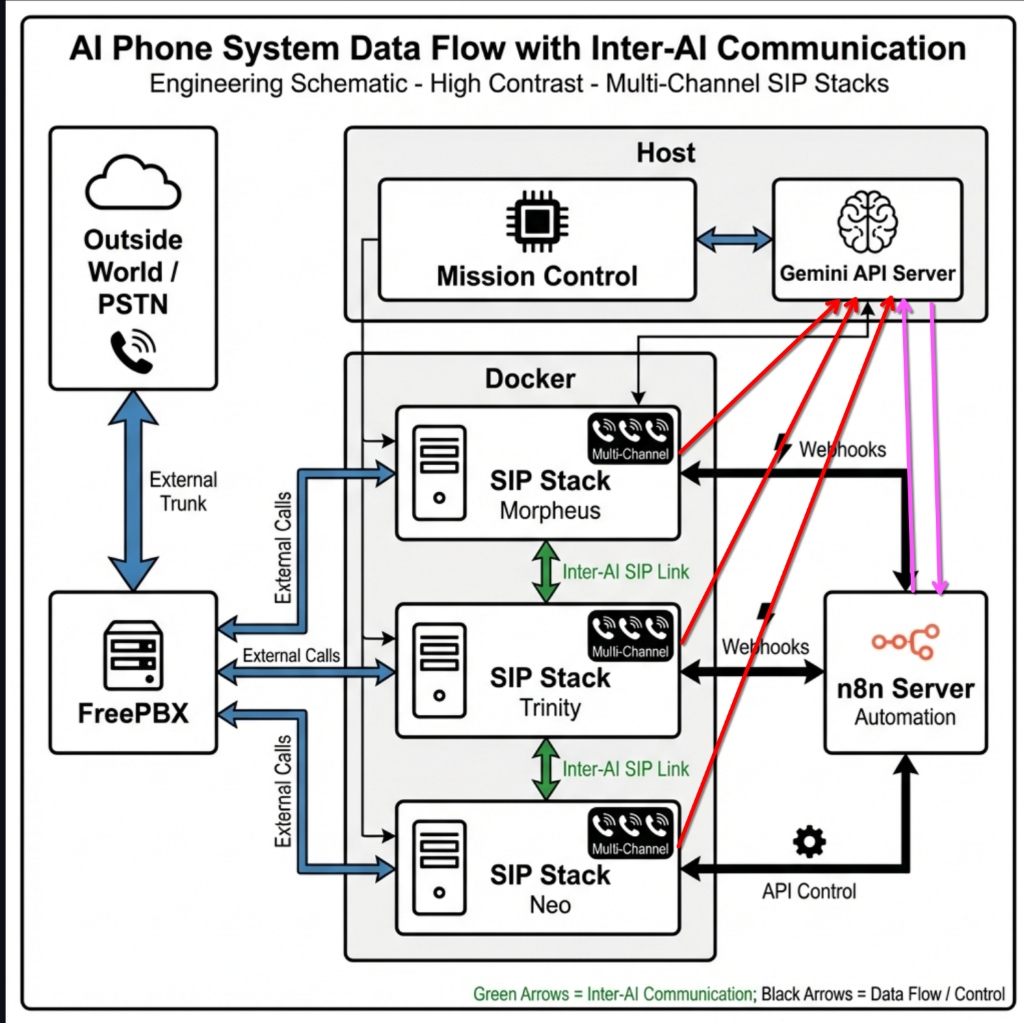
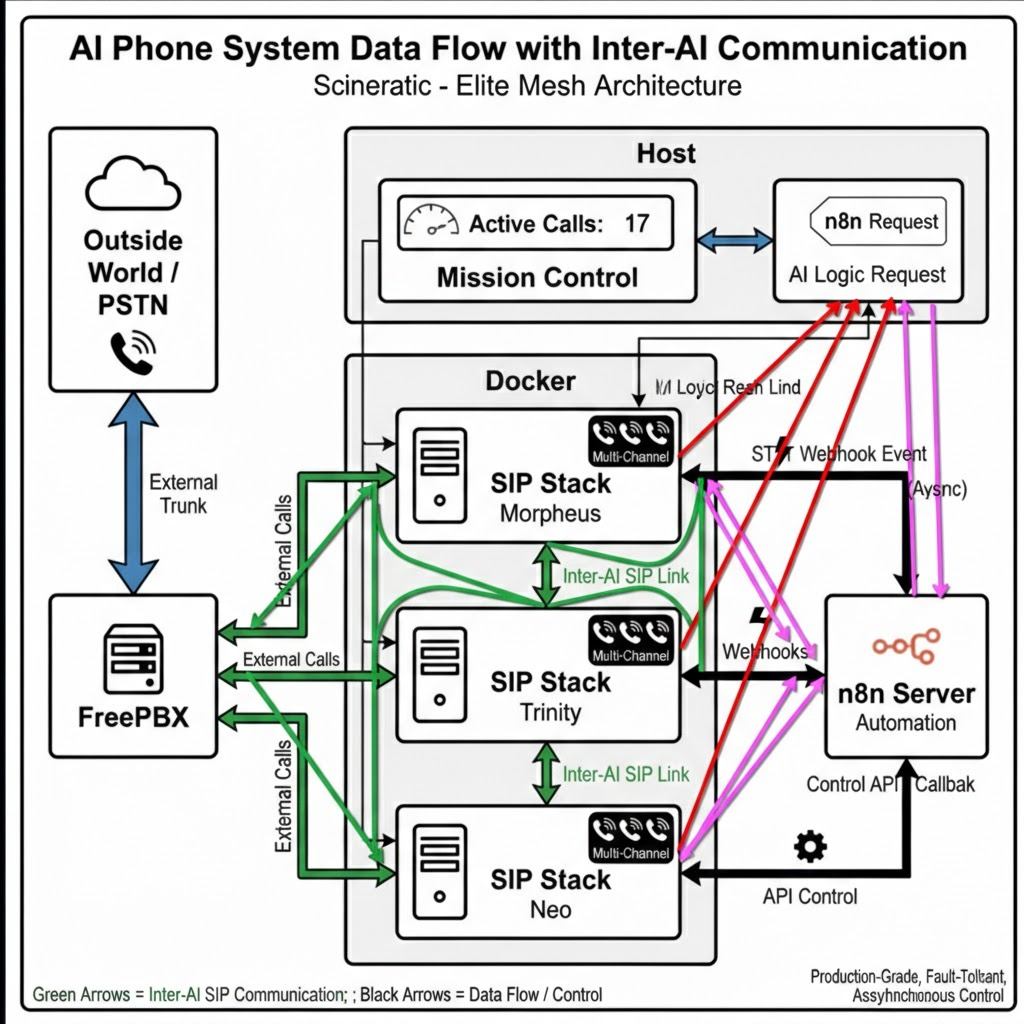
release: MIssionweedSNACKS (Elite Mesh Architecture)

diff --git a/voice-app/lib/query-routes.js b/voice-app/lib/query-routes.js
@@ -11,7 +11,10 @@ const axios = require('axios');
 const crypto = require('crypto');
 const router = express.Router();
 const logger = require('./logger');
+const logger = require('./logger');
 const deviceRegistry = require('./device-registry');
+const callManager = require('./call-manager');
+const callManager = require('./call-manager');
 
 // Dependencies injected via setupRoutes()
 let geminiBridge = null;
@@ -461,6 +464,92 @@ router.get('/device/:identifier', (req, res) => {
       error: 'internal_error',
       message: 'Failed to retrieve device'
     });
+  }
+});
+
+/**
+ * GET /calls
+ * List active calls
+ */
+router.get('/calls', (req, res) => {
+  try {
+    const activeCalls = Array.from(callManager.calls.values()).map(c => ({
+      id: c.id,
+      startTime: c.startTime,
+      duration: Math.round((Date.now() - c.startTime) / 1000)
+    }));
+
+    res.json({
+      success: true,
+      count: activeCalls.length,
+      calls: activeCalls
+    });
+  } catch (error) {
+    res.status(500).json({ success: false, error: error.message });
+  }
+});
+
+/**
+ * POST /calls/:id/command
+ * Inject command into active call (For n8n control)
+ */
+router.post('/calls/:id/command', (req, res) => {
+  const { id } = req.params;
+  const command = req.body; // { type: 'speak', text: '...', ... }
+
+  try {
+    if (!command || !command.type) {
+      return res.status(400).json({ success: false, error: 'Invalid command format' });
+    }
+
+    callManager.sendCommand(id, command);
+    res.json({ success: true, message: 'Command injected' });
+  } catch (error) {
+    logger.warn(`Failed to inject command for ${id}: ${error.message}`);
+    res.status(404).json({ success: false, error: error.message });
+  }
+});
+
+/**
+ * GET /calls
+ * List active calls
+ */
+router.get('/calls', (req, res) => {
+  try {
+    const activeCalls = Array.from(callManager.calls.values()).map(c => ({
+      id: c.id,
+      startTime: c.startTime,
+      duration: Math.round((Date.now() - c.startTime) / 1000)
+    }));
+
+    res.json({
+      success: true,
+      count: activeCalls.length,
+      calls: activeCalls
+    });
+  } catch (error) {
+    res.status(500).json({ success: false, error: error.message });
+  }
+});
+
+/**
+ * POST /calls/:id/command
+ * Inject command into active call (For n8n control)
+ */
+router.post('/calls/:id/command', (req, res) => {
+  const { id } = req.params;
+  const command = req.body; // { type: 'speak', text: '...', ... }
+
+  try {
+    if (!command || !command.type) {
+      return res.status(400).json({ success: false, error: 'Invalid command format' });
+    }
+
+    callManager.sendCommand(id, command);
+    res.json({ success: true, message: 'Command injected' });
+  } catch (error) {
+    logger.warn(`Failed to inject command for ${id}: ${error.message}`);
+    res.status(404).json({ success: false, error: error.message });
   }
 });
 

diff --git a/voice-app/lib/call-manager.js b/voice-app/lib/call-manager.js
@@ -1,0 +1,101 @@
+/**
+ * Call Manager
+ * Registry of active calls to enable external control (n8n, API)
+ * 
+ * Stores active session objects and provides EventEmitters for async command injection.
+ */
+
+const EventEmitter = require('events');
+
+class CallManager extends EventEmitter {
+    constructor() {
+        super();
+        this.calls = new Map();
+    }
+
+    /**
+     * Register a new call
+     * @param {string} callId 
+     * @param {Object} context - Any initial context
+     */
+    register(callId, context = {}) {
+        if (this.calls.has(callId)) return;
+
+        console.log(`[CallManager] Registering call ${callId}`);
+        this.calls.set(callId, {
+            id: callId,
+            startTime: Date.now(),
+            events: new EventEmitter(),
+            context: context,
+            commandQueue: []
+        });
+
+        this.emit('call_started', callId);
+    }
+
+    /**
+     * Unregister a call
+     * @param {string} callId 
+     */
+    unregister(callId) {
+        if (!this.calls.has(callId)) return;
+
+        console.log(`[CallManager] Unregistering call ${callId}`);
+        const call = this.calls.get(callId);
+        call.events.removeAllListeners();
+        this.calls.delete(callId);
+
+        this.emit('call_ended', callId);
+    }
+
+    /**
+     * Get a call object
+     * @param {string} callId 
+     */
+    get(callId) {
+        return this.calls.get(callId);
+    }
+
+    /**
+     * Send a command to a specific call
+     * @param {string} callId 
+     * @param {Object} command - { type: 'speak', text: '...', ... }
+     */
+    sendCommand(callId, command) {
+        const call = this.get(callId);
+        if (!call) {
+            throw new Error(`Call ${callId} not found`);
+        }
+
+        console.log(`[CallManager] Command for ${callId}: ${command.type}`);
+        call.events.emit('command', command);
+        return true;
+    }
+
+    /**
+     * Wait for next command (Async Logic)
+     * @param {string} callId 
+     * @param {number} timeoutMs 
+     */
+    waitForCommand(callId, timeoutMs = 10000) {
+        const call = this.get(callId);
+        if (!call) return Promise.reject(new Error('Call not found'));
+
+        return new Promise((resolve, reject) => {
+            const timer = setTimeout(() => {
+                call.events.removeListener('command', handler);
+                resolve(null); // Timeout (continue normal flow)
+            }, timeoutMs);
+
+            const handler = (cmd) => {
+                clearTimeout(timer);
+                resolve(cmd);
+            };
+
+            call.events.once('command', handler);
+        });
+    }
+}
+
+// Singleton instance
+module.exports = new CallManager();

diff --git a/voice-app/lib/sip-handler.js b/voice-app/lib/sip-handler.js
@@ -4,6 +4,8 @@
  */
 
 const { setTimeout: sleep } = require('node:timers/promises');
+const callManager = require('./call-manager');
+const callManager = require('./call-manager');
 
 // Audio cue URLs
 const READY_BEEP_URL = 'http://127.0.0.1:3000/static/ready-beep.wav';
@@ -129,6 +131,12 @@ async function conversationLoop(endpoint, dialog, callUuid, options, deviceConfi
     const greetingUrl = await ttsService.generateSpeech(greeting, voiceId);
     await endpoint.play(greetingUrl);
 
+    // Register with CallManager for external control
+    callManager.register(callUuid, { device: deviceName });
+
+    // Register with CallManager for external control
+    callManager.register(callUuid, { device: deviceName });
+
     // Start Recording 🔴
     const recordingPath = `/app/recordings/call-${callUuid}.wav`;
     console.log(`[${new Date().toISOString()}] RECORDING Starting to ${recordingPath}`);
@@ -226,12 +234,30 @@ async function conversationLoop(endpoint, dialog, callUuid, options, deviceConfi
       });
       musicPlaying = true;
 
-      // Query Gemini with device-specific prompt
+      // Query Gemini OR Wait for n8n Command
       console.log('[' + new Date().toISOString() + '] GEMINI Querying (device: ' + deviceName + ')...');
-      const geminiResponse = await geminiBridge.query(
-        transcript,
-        { callId: callUuid, devicePrompt: devicePrompt }
-      );
+
+      let geminiResponse = null;
+
+      // Check if we are in "Async Mode" (waiting for external command)
+      // For now, we default to Gemini, but we check CallManager for injected commands first
+      const injectedCmd = await callManager.waitForCommand(callUuid, 100); // Check briefly
+
+      if (injectedCmd) {
+        console.log('[' + new Date().toISOString() + '] EXTERNAL COMMAND: ' + injectedCmd.type);
+        if (injectedCmd.type === 'speak') {
+          geminiResponse = injectedCmd.text;
+        } else if (injectedCmd.type === 'hangup') {
+          break; // End call
+        }
+      }
+
+      if (!geminiResponse) {
+        geminiResponse = await geminiBridge.query(
+          transcript,
+          { callId: callUuid, devicePrompt: devicePrompt }
+        );
+      }
 
       // Stop hold music
       if (musicPlaying) {
@@ -269,6 +295,8 @@ async function conversationLoop(endpoint, dialog, callUuid, options, deviceConfi
 
     try {
       await geminiBridge.endSession(callUuid);
+      callManager.unregister(callUuid);
+      callManager.unregister(callUuid);
     } catch (e) { }
 
     if (forkRunning) {

diff --git a/cli/lib/mesh.js b/cli/lib/mesh.js
@@ -1,0 +1,21 @@
+/**
+ * Mesh Network Logic
+ * Generates peer configuration for Inter-AI communication
+ */
+
+export function generateMeshConfig(totalStacks = 3, baseSipPort = 5060) {
+    const peers = {};
+    const externalIp = process.env.EXTERNAL_IP || 'host.docker.internal';
+
+    // Generate peers for Morpheus (1), Trinity (2), Neo (3), etc.
+    for (let i = 1; i <= totalStacks; i++) {
+        const port = baseSipPort + ((i - 1) * 10);
+        // We use the stack ID as the key
+        peers[`stack${i}`] = {
+            id: i,
+            sip: `sip:stack${i}@${externalIp}:${port}`,
+            name: i === 1 ? 'Morpheus' : i === 2 ? 'Trinity' : i === 3 ? 'Neo' : `Agent-${i}`
+        };
+    }
+    return JSON.stringify(peers);
+}

diff --git a/mission-control/stacks-page.js b/mission-control/stacks-page.js
@@ -3,7 +3,7 @@
  * Allows deploying and managing multiple telephony stacks
  */
 function generateStacksPage() {
-    return `
+  return `
     <!DOCTYPE html>
     <html>
     <head>
@@ -184,6 +184,18 @@ function generateStacksPage() {
             z-index: 100;
         }
         #toast.show { transform: translateY(0); }
+
+        .badge {
+            font-size: 0.7rem;
+            padding: 3px 8px;
+            border-radius: 4px;
+            font-weight: 600;
+            font-family: 'Inter', sans-serif;
+            display: inline-flex;
+            align-items: center;
+            gap: 4px;
+        }
+        .badge-success { background: rgba(16, 185, 129, 0.2); color: var(--success); }
       </style>
     </head>
     <body>

diff --git a/cli/lib/docker.js b/cli/lib/docker.js
@@ -5,6 +5,10 @@ import path from 'path';
 import {
   getConfigDir
 } from './config.js';
+import {
+  stopContainer
+} from './process-manager.js';
+import { generateMeshConfig } from './mesh.js';
 
 /**
  * Detect which docker compose command to use
@@ -138,8 +142,9 @@ export function generateDockerCompose(config, stackId = 1) {
     volumes:
       - ${getConfigDir()}/recordings:/app/recordings
     environment:
-      - EXTERNAL_IP=\${EXTERNAL_IP:-127.0.0.1}
-
+      - EXTERNAL_IP=\${EXTERNAL_IP}
+      - MESH_PEERS='${generateMeshConfig(3, baseSipPort)}'
+      - HTTP_PORT=${voicePort}
   voice-app:
     build: ${config.paths.voiceApp}
     container_name: voice-app-${stackId}

diff --git a/README.md b/README.md
@@ -16,7 +16,7 @@ Gemini Phone allows you to deploy fully autonomous "AI Employees" (Stacks) that 
 Run this on any Linux machine (Ubuntu/Debian/Pi) on the same LAN as your FreePBX:
 
 ```bash
-curl -sSL https://raw.githubusercontent.com/jayis1/claude-phone-but-for-Gemini-and-freepbx/weedsnacker19/install.sh | bash
+curl -sSL https://raw.githubusercontent.com/jayis1/claude-phone-but-for-Gemini-and-freepbx/MIssionweedSNACKS/install.sh | bash
 ```
 
 Run setup:
@@ -57,7 +57,7 @@ Instead of just one AI bot, this system orchestrates **Teams of AIs**.
 - **Smart Routing**: AIs can use the PBX to transfer calls (`"Let me transfer you to billing..."` -> *Transfers to Ext 200*).
 - **"Synx PBX"**: One-click provisioning of Extensions, Trunks, and Inbound Routes on FreePBX.
 - **Mission Control**: Real-time dashboard to see who is talking, view logs, and manage stacks.
-- **Technical Architecture**: A clean, serious diagram showing the Mesh Network layout, including Discrete SIP Trunks, Inter-AI Links, and the n8n Data Loop.
+- **Technical Architecture**: A clean, serious diagram showing the *Elite Mesh Architecture*, including Active Call Stats, Async n8n Control Loop, and Inter-AI SIP Links.
 
 ### Technical Architecture Diagram
 

diff --git a/GEMINI.md b/GEMINI.md
@@ -155,7 +155,7 @@ gemini-phone/
 
 ```bash
 # One-line install
-curl -sSL https://raw.githubusercontent.com/jayis1/claude-phone-but-for-Gemini-and-freepbx/weedsnacker19/install.sh | bash
+curl -sSL https://raw.githubusercontent.com/jayis1/claude-phone-but-for-Gemini-and-freepbx/MIssionweedSNACKS/install.sh | bash
 
 # Setup and run
 gemini-phone setup    # Interactive configuration
